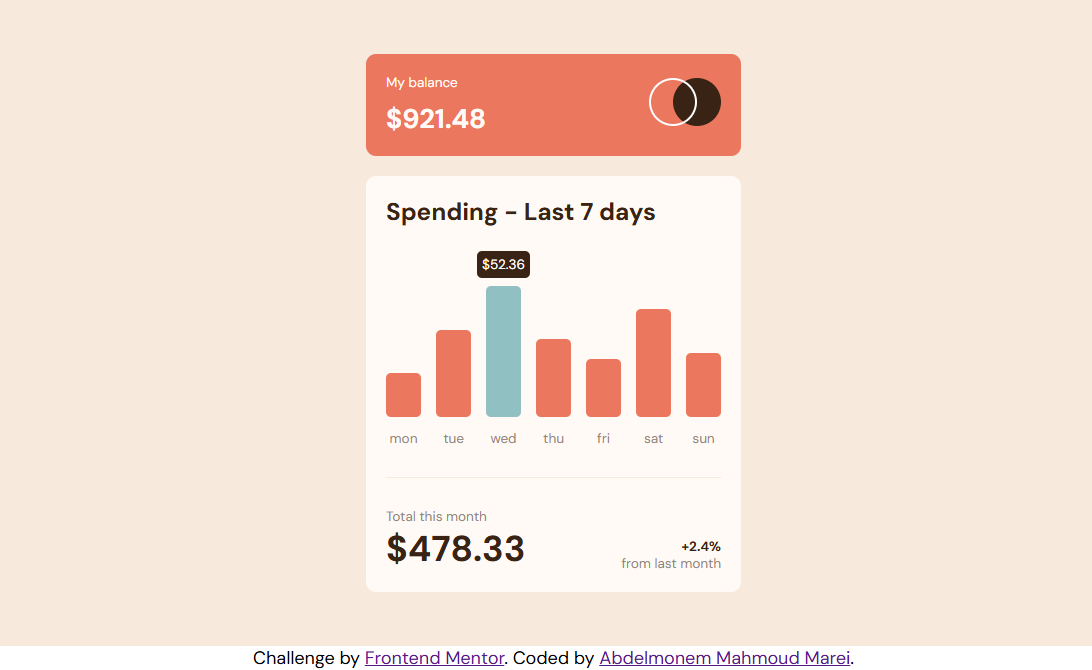
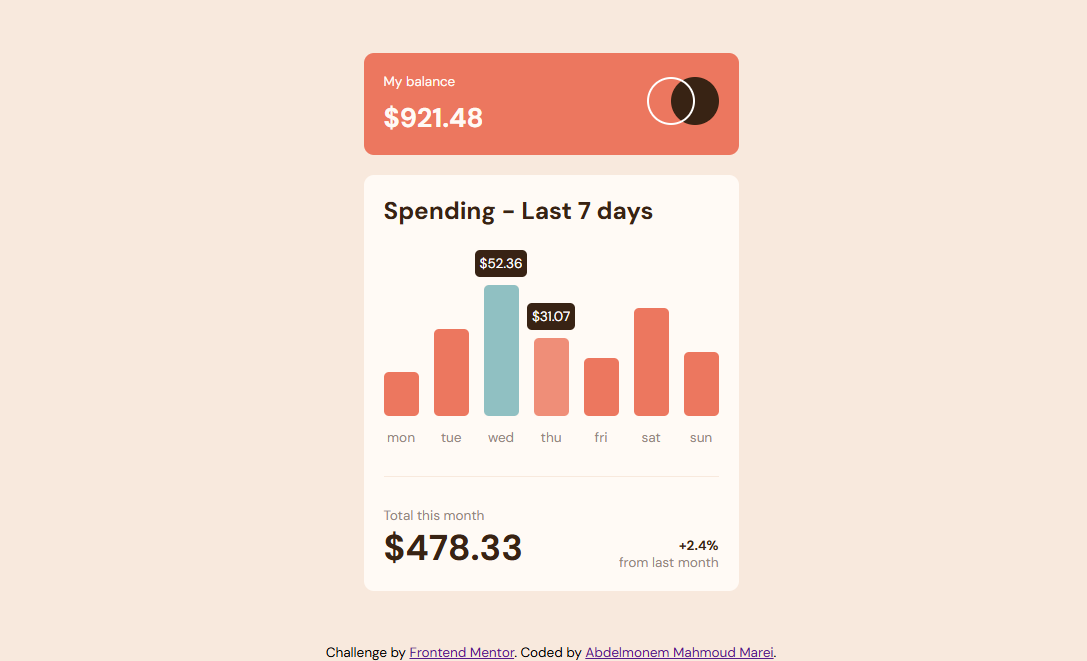
Update CSS and HTML files and add screenshots
Update CSS File to fit screen that width less than 375px and add new screenshots to live site

diff --git a/Junior/expenses-chart-component-main/index.html b/Junior/expenses-chart-component-main/index.html
@@ -48,9 +48,9 @@
       </div>
     </div>
   </div>
-  <div style="text-align: center;" class="attribution">
-    Challenge by <a href="https://www.frontendmentor.io/challenges/expenses-chart-component-e7yJBUdjwt" target="_blank">Frontend Mentor</a>.
-    Coded by <a href="https://www.frontendmentor.io/profile/AbdelmonemMarei" target="_blank">Abdelmonem Mahmoud Marei</a>.
+  <div style="text-align: center; background-color: hsl(27, 66%, 92%);font-size: 0.75rem;" class="attribution">
+    Challenge by <a href="https://www.frontendmentor.io/challenges/expenses-chart-component-e7yJBUdjwt" target="_blank" style="font-size: 0.75rem;">Frontend Mentor</a>.
+    Coded by <a href="https://www.frontendmentor.io/profile/AbdelmonemMarei" target="_blank" style="font-size: 0.75rem;">Abdelmonem Mahmoud Marei</a>.
   </div>
   <script src="js/main.js " async></script>
 </body>

diff --git a/Junior/expenses-chart-component-main/css/main.css b/Junior/expenses-chart-component-main/css/main.css
@@ -172,4 +172,25 @@
         font-size: 1.5rem;
     }
 }
+
+@media (max-width:360px) {
+    .container .card-container{
+        max-width: 280px;
+    }
+    .container .card-container .balance-card p:last-child{
+        font-size: 1.25rem;
+    }
+    .container .card-container .spending-card{
+        padding: 15px;
+    }
+    .container .card-container .spending-card h2{
+        font-size: 1rem;
+    }
+    .container .card-container .spending-card .ratings >div{
+        width: 25px;
+    }
+    .container .card-container .spending-card .month-brief >div:first-child >p:last-child{
+        font-size: 1.25rem;
+    }
+}
 /* End styles */
